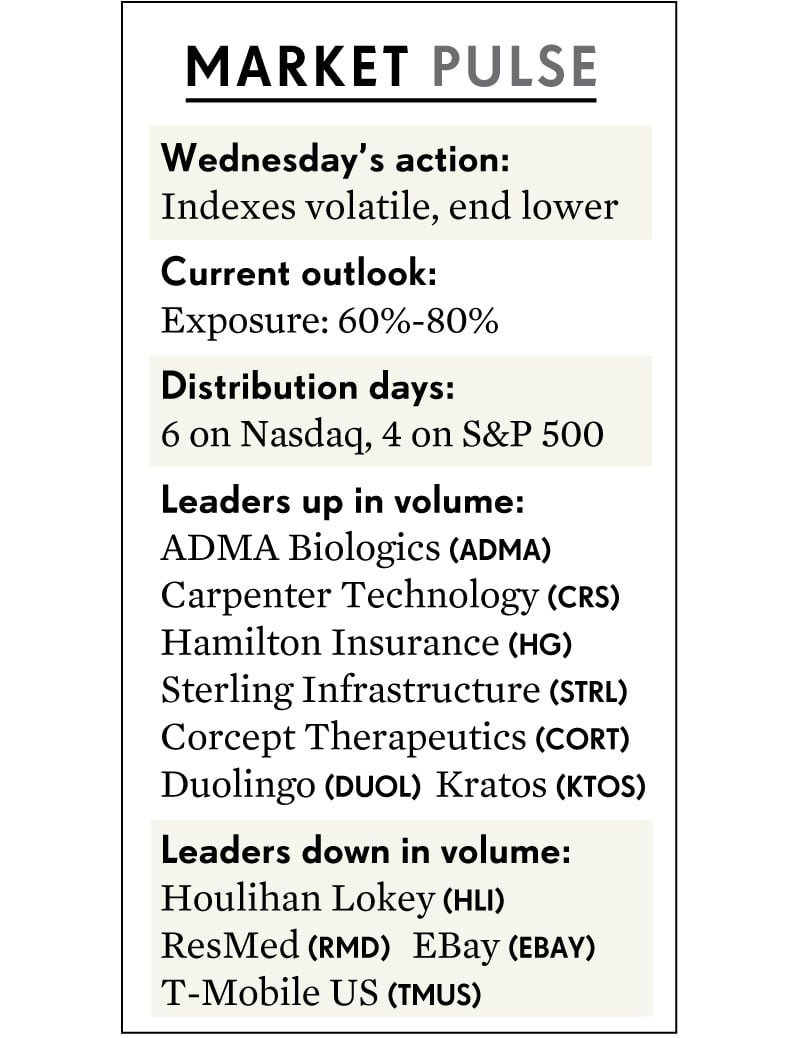
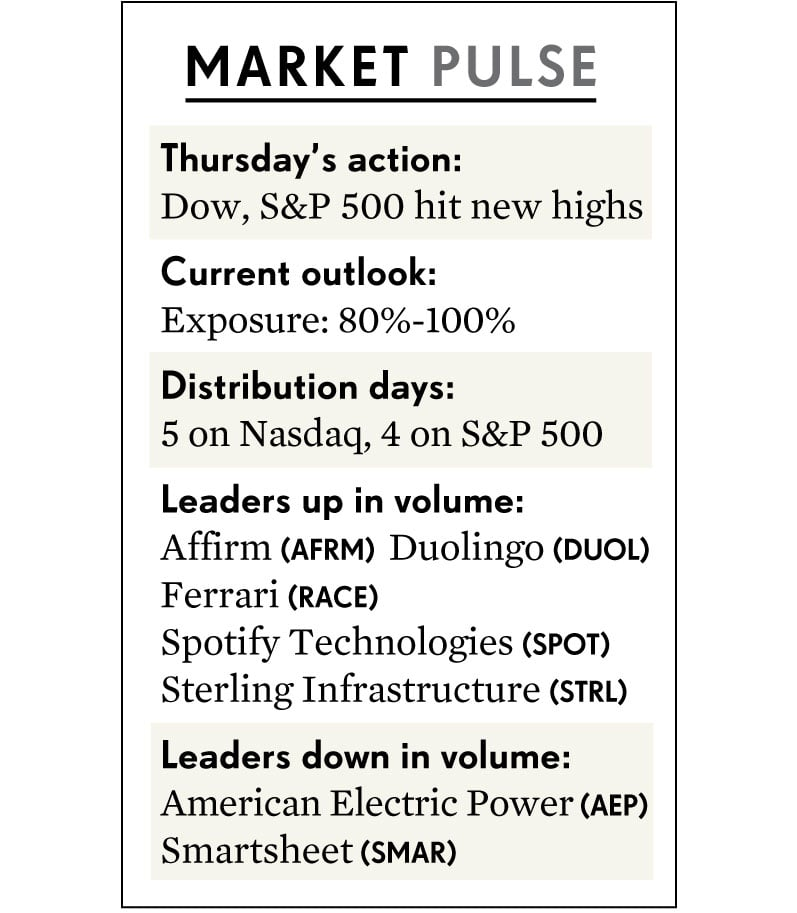
update

Changed region(s): [[0.1506, 0.0307, 0.8733, 1.0]]

diff --git a/_columns/The_Big_Picture/2024-09-19.md b/_columns/The_Big_Picture/2024-09-19.md
@@ -1,104 +1,145 @@
 ---
 layout: content
 title: >-
-  Stocks Volatile After Fed Goes With Bigger Rate Cut; Why Market Outlook Could Change Soon
-date: 2024-09-19 09:55 -0700
-author: JUAN CARLOS ARANCIBIA
+  Dow Jones, S&P 500 Hit New Highs; 4 Leaders In Buy Zones As Breakouts Enhance Stock Market Outlook
+date: 2024-09-19 17:24 -0700
+author: SCOTT LEHTONEN
 ---
 
 
 
 
 
-The stock market waited 2-1/2 years for this day, and it wasn't sure what to do after the Fed officially ended a tightening policy that began in March 2022.
+The Dow Jones Industrial Average and S&P 500 hit new highs Thursday, as Wall Street had a delayed positive reaction to Wednesday's Federal Reserve interest-rate cut. And the Nasdaq composite closed at its highest level since July 16.
 
 
 
 
-Indexes were erratic Wednesday afternoon. The initial announcement of a 50-basis-point rate cut was the larger of two scenarios, and it motivated buyers. The Nasdaq initially climbed more than 1%, and the Russell 2000 rallied more than 2%. But investors soon tempered their enthusiasm.
+The Dow Jones Industrial Average rose 1.3% to close above 42,000 for the first time. The S&P 500 gained 1.7%, while the Nasdaq composite rallied 2.5%. The small-cap Russell 2000 index climbed 2.1%.
 
 
-As Fed Chair Jerome Powell spoke with reporters, indexes erased most or all gains. That came despite a generally positive Q&A session from Powell. Sellers took control in the final hour, leaving the main indexes at session lows at the closing bell.
+Eight of the 11 S&P 500 sectors ended higher, with technology and consumer discretionary leading the way. Defensive sectors — consumer staples, real estate and utilities — fell as investors embraced risk.
 
 
-The S&P 500 closed 0.3% lower, diminishing its intraday record high to just a footnote. The Nasdaq composite and Dow Jones Industrial Average also fell 0.3%. The small-cap Russell 2000 escaped with a gain of less than 0.1%.
+Breadth was positive, as [advancers topped decliners](https://www.marketwatch.com/market-data/us?mod=market-data-center) by nearly 4-to-1 on the NYSE and by nearly 3-to-1- on the Nasdaq.
 
 
-Volume rose on the Nasdaq and NYSE from Tuesday's levels. That meant the Nasdaq and S&P 500 picked up a [distribution day](https://www.investors.com/how-to-invest/investors-corner/stock-market-timing-the-subtle-sign-of-market-tops/).
+Volume edged lower on the Nasdaq but was higher on the New York Stock Exchange from Wednesday's session.
 
 
-Despite its volatile action Wednesday, the S&P 500's intraday advance was enough to cause the deletion of the Sept. 6 distribution day, which offset Wednesday's new distribution day. The index climbed more than 5% from that day's close, meaning it should no longer factor into the current market analysis.
+The Nasdaq's Sept. 3 [distribution day](https://www.investors.com/how-to-invest/investors-corner/stock-market-timing-the-subtle-sign-of-market-tops/) dropped off the overall count. When an index moves up 5% from the closing price of the distribution day, then it is considered no longer relevant to the current count.
 
 
-Yet the Nasdaq now has a half-dozen days of higher-volume losses, and the S&P has four such days. Those numbers point to a trend of institutional selling that needs to be watched closely in the coming days.
 
 
-Stock Market Holds Up For Now
------------------------------
+---
 
 
-![](https://www.investors.com/wp-content/uploads/2024/09/MP091824-230x300.jpg)The overall technical profile of the major indexes remained largely unchanged even after the wild afternoon. The Dow, S&P 500, Nasdaq and Russell 2000 continued to hold above their [50-day moving averages](https://www.investors.com/how-to-invest/investors-corner/moving-averages-help-understand-stock-markets-direction-heres-how-to-use-them/).
+[**Nvidia, Apple And Tesla Highlight How To Handle This Market**](https://www.investors.com/how-to-invest/investors-corner/investing-in-stocks-stock-investing-with-three-step-routine/)
 
 
-On Wednesday, decliners topped advancers by 7-to-4 on the Nasdaq and by 8-to-7 on the NYSE. Every S&P sector index fell except for Energy Select Sector SPDR ([XLE](https://research.investors.com/quote.aspx?symbol=XLE)), which added 0.2%.
 
 
-But in broader terms, breadth has been improving. The Invesco S&P 500 Equal Weight ETF ([RSP](https://research.investors.com/quote.aspx?symbol=RSP)), for example, made a record high Wednesday before reversing lower 0.2%. Stocks making new 52-week highs have been far outnumbering new lows.
+---
 
 
-In a positive sign for leading growth stocks, the IBD 50 0utperformed with a 0.3% increase.
+Dow Jones Winners And Losers
+----------------------------
 
 
-But breakouts Wednesday followed the market's weak afternoon. Eight stocks in the [IBD MarketSurge 250 index](https://get.investors.com/marketsurge/?artProdLink=MarketSurge) topped buy points; in all cases, they finished below their entries.
+![](https://www.investors.com/wp-content/uploads/2024/09/MP091924--262x300.jpg)In the Dow Jones index, **Salesforce** ([CRM](https://research.investors.com/quote.aspx?symbol=CRM)) and **Caterpillar** ([CAT](https://research.investors.com/quote.aspx?symbol=CAT)) were among the biggest winners Thursday, with gains of 5.4% and 5.1%, respectively. They combined for more than 200 of the Dow's 522-point increase Thursday.
 
 
-Mixed market signals mean the stock market is seeking direction and investors have to be prepared in case of a larger drawdown. IBD's recommended exposure remained at 60%-80%, but it would be smart to be cautious while the market tries to figure out its direction.
+Meanwhile, **McDonald's** ([MCD](https://research.investors.com/quote.aspx?symbol=MCD)) contributed more than 215 points to the Dow Jones industrials' point gain, according to Dow Jones Market Data.
 
 
-Stock Market Moves On Powell Comments
--------------------------------------
+On the downside, **Coca-Cola** ([KO](https://research.investors.com/quote.aspx?symbol=KO)) and **Procter & Gamble** ([PG](https://research.investors.com/quote.aspx?symbol=PG)) were the biggest losers on the session, down 1.6% and 1.4%, respectively. It was another sign that investors moved away from defensive assets.
 
 
-Buyers had been guarded ahead of the Fed's announcement. In a press briefing, Powell expressed confidence that the Fed can reach its goal of 2% inflation while keeping the U.S. economy on good footing.
+[All of the Magnificent Seven stocks](https://www.investors.com/research/magnificent-seven-stocks-to-buy-and-and-watch/) ended higher as the Roundhill Magnificent Seven ETF ([MAGS](https://research.investors.com/quote.aspx?symbol=MAGS)) jumped 3.7%. Notably, **Nvidia** ([NVDA](https://research.investors.com/quote.aspx?symbol=NVDA)) rallied 4% to regain its 50-day moving average, while **Tesla** ([TSLA](https://research.investors.com/quote.aspx?symbol=TSLA)) raced above an early entry at 235, the high price on Sept. 5.
 
 
-Powell said there was "broad support" for the [50-basis-point cut](https://www.investors.com/news/economy/federal-reserve-rate-cuts-start-sp-500-jerome-powell/) among members of the Federal Open Market Committee, although one member dissented. The Fed penciled in another half point in rate cuts by the end of the year.
+The Innovator IBD 50 ETF ([FFTY](https://research.investors.com/quote.aspx?symbol=FFTY)) gained 2.1% Thursday. In the [IBD 50](https://research.investors.com/stock-lists/ibd-50/), **Monday.com** ([MNDY](https://research.investors.com/quote.aspx?symbol=MNDY)) climbed 5% to break out past a 272.77 alternate entry.
 
 
-The benchmark 10-year Treasury yield climbed four basis points to 3.68%, the largest one-day increase since Aug. 22.
+What To Do Now
+--------------
 
 
-Jack McIntyre, portfolio manager at Brandywine Global, said in written comments that a more prolonged and predictable easing cycle is at hand.
+Thursday's rally was more evidence of stock market strength following Wednesday's hesitant action. That results in IBD's recommended market exposure level being lifted from 60%-80% to 80%-100%.
 
 
-"It now will be a battle between market expectations and the Fed, with employment data — not inflation data — determining which side is right," McIntyre said. "Since this policy move was mostly telegraphed, there is no outsized move in financial markets. Now, everyone is back to data dependency."
+That means that investors can add more positions as market leaders break out past new entries. Those are good opportunities to put some capital to work.
 
 
-Jeff Schulze, head of economic and market strategy at ClearBridge Investments, said the Fed's dot-plot changed substantially. Fed policymakers now expect another six cuts by the end of 2025, which is much closer to current market pricing.
+Despite favorable action, the current environment still requires [risk management](https://www.investors.com/how-to-invest/investors-corner/risk-management-in-the-stock-market-how-much-money-to-invest-now/), one of the [four pillars of The IBD Methodology](https://www.investors.com/how-to-invest/investors-corner/stock-market-investing-ibd-methodology/). That means incrementally adding and reducing exposure to stay in sync with the broad market.
 
 
-"Should this rate path come to fruition, the 10-year Treasury will likely move higher on the back of stronger expected economic momentum," Schulze said. "This would rhyme with prior soft landing cutting cycles as the 10-year Treasury has historically moved higher in a sell-the-news fashion following the initial rate cut. Going forward, we expect the Fed will move in 25 bp (basis point) increments to further recalibrate policy barring a material deterioration in the labor market."
+[IBD MarketSurge](https://get.investors.com/marketsurge/?artProdLink=MarketSurge)'s Breaking Out Today list featured another three stocks, building on a number of breakouts this week. That's another bullish layer for the stock market outlook.
 
 
-[View General Market Indicator charts page here.](https://www.investors.com/wp-content/uploads/2024/09/DailyGMI_091824.pdf)
+Meanwhile, there are another 16 ideas appearing on MarketSurge's Near Pivot list, suggesting there are more buying opportunities ready to emerge.
+
+
+
+
+---
+
+
+[**Keep Trying, Nvidia, But These 19 Stocks Are Already 'Perfect'**](https://www.investors.com/research/stock-screener-top-stocks-to-buy-watch/)
+
+
+
+
+---
+
+
+
+Stock Market Leaders: Arista, DoorDash, Meta, Spotify
+-----------------------------------------------------
+
+
+Amid the stock market rebound, leaders to watch include **Arista Networks** ([ANET](https://research.investors.com/quote.aspx?symbol=ANET)), **DoorDash** ([DASH](https://research.investors.com/quote.aspx?symbol=DASH)), **Meta Platforms** ([META](https://research.investors.com/quote.aspx?symbol=META)) and **Spotify** ([SPOT](https://research.investors.com/quote.aspx?symbol=SPOT)).
+
+
+Arista Networks is breaking out past a 376.50 buy point in a consolidation, according to [IBD MarketSurge](https://get.investors.com/marketsurge/?artProdLink=MarketSurge) pattern recognition. The stock was on the MarketSurge Growth 250 Breaking Out Today list.
+
+
+DoorDash rallied further above a 131.21 cup-with-handle entry after BTIG upgraded the stock from neutral to buy, with a 155 price target.
+
+
+Social media giant Meta Platforms jumped above a 544.23 alternative buy point Thursday, closing at new highs.
+
+
+Finally, [Spotify shares](https://www.investors.com/research/ibd-stock-of-the-day/spotify-stock-forecast-1-billion-active-users/) are breaking out above a 359.38 entry. The [music streaming platform](https://www.investors.com/news/technology/spotify-stock-hits-high-note-price-target-hike/) and [IBD SwingTrader idea](https://www.investors.com/product/swingtrader/?artProdLink=Swingtrader) jumped 4.7%, closing in a 5% buy area that runs up to 377.35.
+
+
+[View General Market Indicator charts page here.](https://www.investors.com/wp-content/uploads/2024/09/DailyGMI_091924.pdf)
+
+
+*Be sure to follow Scott Lehtonen on X at [@IBD\_SLehtonen](https://twitter.com/IBD_SLehtonen) for more on the Dow Jones Industrial Average and stock market news.*
+
+
 
 
 **YOU MAY ALSO LIKE:**
 
 
-[The Four Pillars Of The IBD Methodology](https://www.investors.com/how-to-invest/investors-corner/stock-market-investing-ibd-methodology/)
+[Check Out IBD's New Exposure Levels To Help You Stay In Step With The Market Trend](https://www.investors.com/how-to-invest/investors-corner/risk-management-in-the-stock-market-how-much-money-to-invest-now/)
 
 
-[Risk Management In The Stock Market: How Much Money To Invest](https://www.investors.com/how-to-invest/investors-corner/risk-management-in-the-stock-market-how-much-money-to-invest-now/)
+[Top Growth Stocks To Buy And Watch In Today's Stock Market And Dow Jones](https://www.investors.com/stock-lists/stocks-to-watch-top-rated-ipos-big-caps-and-growth-stocks/)
 
 
-[IBD Live: Learn And Analyze Growth Stocks With The Pros](https://shop.investors.com/offer/splashresponsive.aspx?id=IBD-Live&intcode=icmhpbrdcstmsg|cms|ibdlive|2019|11|ibdlive|na|707596&src=A00387A)
+[Learn How To Time The Market With IBD's ETF Market Strategy](https://www.investors.com/market-trend/ibds-etf-market-strategy/ibds-etf-market-strategy/)
 
 
-[Get Free IBD Newsletters: Market Prep \| Tech Report \| How To Invest](https://shop.investors.com/offer/splashresponsive.aspx?id=newsletters-howtoinvest)
+[Find The Best Long-Term Investments With IBD Long-Term Leaders](https://www.investors.com/research/ibd-long-term-leaders-screen)
 
 
-[What To Do Now After Stocks End Lower Despite Big Rate Cut](https://www.investors.com/market-trend/stock-market-today/dow-jones-futures-stock-market-lower-fed-rate-cut/)
+[Spot Buy Points And Sell Signals With MarketSurge Pattern Recognition](https://get.investors.com/marketsurge/?artProdLink=MarketSurge)
+
+
 
 
 

diff --git a/_columns/The_Big_Picture/zh-cn/2024-09-19.md b/_columns/The_Big_Picture/zh-cn/2024-09-19.md
@@ -1,0 +1,176 @@
+---
+layout: content
+title: >-
+  Dow Jones, S&P 500 Hit New Highs; 4 Leaders In Buy Zones As Breakouts Enhance Stock Market Outlook	道琼斯、标准普尔 500 指数创下新高;4 个领先企业进入买入区，突破增强股市前景
+date: 2024-09-19 17:24 -0700
+author: SCOTT LEHTONEN 斯科特·莱赫托宁
+---
+
+
+
+
+
+The Dow Jones Industrial Average and S&P 500 hit new highs Thursday, as Wall Street had a delayed positive reaction to Wednesday's Federal Reserve interest-rate cut. And the Nasdaq composite closed at its highest level since July 16.  
+道琼斯工业平均指数和标准普尔 500 指数周四创下新高，因为华尔街对美联储周三降息的积极反应延迟。纳斯达克综合指数收于 7 月 16 日以来的最高水平。
+
+
+
+
+The Dow Jones Industrial Average rose 1.3% to close above 42,000 for the first time. The S&P 500 gained 1.7%, while the Nasdaq composite rallied 2.5%. The small-cap Russell 2000 index climbed 2.1%.  
+道琼斯工业平均指数上涨 1.3%，首次收于 42,000 点以上。标准普尔 500 指数上涨 1.7%，而纳斯达克综合指数上涨 2.5%。小盘股罗素 2000 指数上涨 2.1%。
+
+
+Eight of the 11 S&P 500 sectors ended higher, with technology and consumer discretionary leading the way. Defensive sectors — consumer staples, real estate and utilities — fell as investors embraced risk.  
+标准普尔 500 指数的 11 个板块中有 8 个板块收高，其中科技和非必需消费品领涨。由于投资者接受风险，防御性板块——必需消费品、房地产和公用事业——下跌。
+
+
+Breadth was positive, as [advancers topped decliners](https://www.marketwatch.com/market-data/us?mod=market-data-center) by nearly 4-to-1 on the NYSE and by nearly 3-to-1- on the Nasdaq.  
+广度是积极的，纽约证券交易所[的上涨股](https://www.marketwatch.com/market-data/us?mod=market-data-center)以近 4 比 1 的比分领先于下跌的股票，在纳斯达克指数的涨幅接近 3 比 1。
+
+
+Volume edged lower on the Nasdaq but was higher on the New York Stock Exchange from Wednesday's session.  
+纳斯达克的成交量小幅走低，但纽约证券交易所的成交量比周三的交易时段有所上升。
+
+
+The Nasdaq's Sept. 3 [distribution day](https://www.investors.com/how-to-invest/investors-corner/stock-market-timing-the-subtle-sign-of-market-tops/) dropped off the overall count. When an index moves up 5% from the closing price of the distribution day, then it is considered no longer relevant to the current count.  
+纳斯达克 9 月 3 日[的发行日](https://www.investors.com/how-to-invest/investors-corner/stock-market-timing-the-subtle-sign-of-market-tops/)比总计数下降。当指数从分配日的收盘价上涨 5% 时，则认为它不再与当前计数相关。
+
+
+
+
+---
+
+
+[**Nvidia, Apple And Tesla Highlight How To Handle This Market  
+英伟达、苹果和特斯拉强调如何应对这一市场**](https://www.investors.com/how-to-invest/investors-corner/investing-in-stocks-stock-investing-with-three-step-routine/)
+
+
+
+
+---
+
+
+Dow Jones Winners And Losers道琼斯赢家和输家
+------------------------------------
+
+
+![](https://www.investors.com/wp-content/uploads/2024/09/MP091924--262x300.jpg)In the Dow Jones index, **Salesforce** ([CRM](https://research.investors.com/quote.aspx?symbol=CRM)) and **Caterpillar** ([CAT](https://research.investors.com/quote.aspx?symbol=CAT)) were among the biggest winners Thursday, with gains of 5.4% and 5.1%, respectively. They combined for more than 200 of the Dow's 522-point increase Thursday.  
+在道琼斯指数中，**Salesforce** （[CRM）](https://research.investors.com/quote.aspx?symbol=CRM) 和 **Caterpillar** （[CAT）](https://research.investors.com/quote.aspx?symbol=CAT) 周四是最大的赢家之一，分别上涨 5.4% 和 5.1%。周四道琼斯指数上涨 522 点，其中 200 多点加起来。
+
+
+Meanwhile, **McDonald's** ([MCD](https://research.investors.com/quote.aspx?symbol=MCD)) contributed more than 215 points to the Dow Jones industrials' point gain, according to Dow Jones Market Data.  
+与此同时，根据道琼斯市场数据，**麦当劳** （[MCD](https://research.investors.com/quote.aspx?symbol=MCD)） 为道琼斯工业指数的涨幅贡献了超过 215 点。
+
+
+On the downside, **Coca-Cola** ([KO](https://research.investors.com/quote.aspx?symbol=KO)) and **Procter & Gamble** ([PG](https://research.investors.com/quote.aspx?symbol=PG)) were the biggest losers on the session, down 1.6% and 1.4%, respectively. It was another sign that investors moved away from defensive assets.  
+从下行的一面来看，**可口可乐**（[KO）](https://research.investors.com/quote.aspx?symbol=KO)和**宝洁**（[PG）](https://research.investors.com/quote.aspx?symbol=PG)是本次交易日的最大输家，分别下跌了1.6%和1.4%。这是投资者远离防御性资产的另一个迹象。
+
+
+[All of the Magnificent Seven stocks](https://www.investors.com/research/magnificent-seven-stocks-to-buy-and-and-watch/) ended higher as the Roundhill Magnificent Seven ETF ([MAGS](https://research.investors.com/quote.aspx?symbol=MAGS)) jumped 3.7%. Notably, **Nvidia** ([NVDA](https://research.investors.com/quote.aspx?symbol=NVDA)) rallied 4% to regain its 50-day moving average, while **Tesla** ([TSLA](https://research.investors.com/quote.aspx?symbol=TSLA)) raced above an early entry at 235, the high price on Sept. 5.  
+随着 Roundhill Magnificent Seven ETF （[MAGS](https://research.investors.com/quote.aspx?symbol=MAGS)） 上涨 3.7%，[所有 Magnificent Seven 股票](https://www.investors.com/research/magnificent-seven-stocks-to-buy-and-and-watch/)收高。值得注意的是，**英伟达** （[NVDA）](https://research.investors.com/quote.aspx?symbol=NVDA) 上涨 4% 以收复其 50 天移动平均线，而**特斯拉** （[TSLA）](https://research.investors.com/quote.aspx?symbol=TSLA) 在 9 月 5 日的高价 235 上方飙升。
+
+
+The Innovator IBD 50 ETF ([FFTY](https://research.investors.com/quote.aspx?symbol=FFTY)) gained 2.1% Thursday. In the [IBD 50](https://research.investors.com/stock-lists/ibd-50/), **Monday.com** ([MNDY](https://research.investors.com/quote.aspx?symbol=MNDY)) climbed 5% to break out past a 272.77 alternate entry.  
+Innovator IBD 50 ETF （[FFTY）](https://research.investors.com/quote.aspx?symbol=FFTY) 周四上涨 2.1%。在 [IBD 50](https://research.investors.com/stock-lists/ibd-50/) 中，**Monday.com** （[MNDY）](https://research.investors.com/quote.aspx?symbol=MNDY) 上涨 5%，突破 272.77 的备用入场点。
+
+
+What To Do Now 现在该做什么
+---------------------
+
+
+Thursday's rally was more evidence of stock market strength following Wednesday's hesitant action. That results in IBD's recommended market exposure level being lifted from 60%-80% to 80%-100%.  
+周四的反弹更多地证明了股市在周三犹豫不决的行动之后走强。这导致 IBD 建议的市场敞口水平从 60%-80% 提高到 80%-100%。
+
+
+That means that investors can add more positions as market leaders break out past new entries. Those are good opportunities to put some capital to work.  
+这意味着投资者可以在市场领导者突破过去的新进入时增加更多头寸。这些都是投入一些资金的好机会。
+
+
+Despite favorable action, the current environment still requires [risk management](https://www.investors.com/how-to-invest/investors-corner/risk-management-in-the-stock-market-how-much-money-to-invest-now/), one of the [four pillars of The IBD Methodology](https://www.investors.com/how-to-invest/investors-corner/stock-market-investing-ibd-methodology/). That means incrementally adding and reducing exposure to stay in sync with the broad market.  
+尽管采取了有利的行动，但当前的环境仍然需要[风险管理](https://www.investors.com/how-to-invest/investors-corner/risk-management-in-the-stock-market-how-much-money-to-invest-now/)，这是 [IBD 方法的四大支柱](https://www.investors.com/how-to-invest/investors-corner/stock-market-investing-ibd-methodology/)之一。这意味着逐步增加和减少风险敞口，以与大盘保持同步。
+
+
+[IBD MarketSurge](https://get.investors.com/marketsurge/?artProdLink=MarketSurge)'s Breaking Out Today list featured another three stocks, building on a number of breakouts this week. That's another bullish layer for the stock market outlook.  
+[IBD MarketSurge](https://get.investors.com/marketsurge/?artProdLink=MarketSurge) 的 Breaking Out Today 名单以本周的多次突破为基础，介绍了另外三只股票。这是股市前景的另一个看涨因素。
+
+
+Meanwhile, there are another 16 ideas appearing on MarketSurge's Near Pivot list, suggesting there are more buying opportunities ready to emerge.  
+与此同时，MarketSurge 的 Near Pivot 列表中还出现了另外 16 个想法，这表明有更多买入机会即将出现。
+
+
+
+
+---
+
+
+[**Keep Trying, Nvidia, But These 19 Stocks Are Already 'Perfect'  
+继续尝试，英伟达，但这 19 只股票已经是“完美”的**](https://www.investors.com/research/stock-screener-top-stocks-to-buy-watch/)
+
+
+
+
+---
+
+
+
+Stock Market Leaders: Arista, DoorDash, Meta, Spotify股市领导者：Arista、DoorDash、Meta、Spotify
+---------------------------------------------------------------------------------------
+
+
+Amid the stock market rebound, leaders to watch include **Arista Networks** ([ANET](https://research.investors.com/quote.aspx?symbol=ANET)), **DoorDash** ([DASH](https://research.investors.com/quote.aspx?symbol=DASH)), **Meta Platforms** ([META](https://research.investors.com/quote.aspx?symbol=META)) and **Spotify** ([SPOT](https://research.investors.com/quote.aspx?symbol=SPOT)).  
+在股市反弹中，值得关注的领导者包括 **Arista Networks** （[ANET](https://research.investors.com/quote.aspx?symbol=ANET)）、**DoorDash** （[DASH](https://research.investors.com/quote.aspx?symbol=DASH)）、**Meta Platforms** （[META）](https://research.investors.com/quote.aspx?symbol=META) 和 **Spotify** （[SPOT](https://research.investors.com/quote.aspx?symbol=SPOT)）。
+
+
+Arista Networks is breaking out past a 376.50 buy point in a consolidation, according to [IBD MarketSurge](https://get.investors.com/marketsurge/?artProdLink=MarketSurge) pattern recognition. The stock was on the MarketSurge Growth 250 Breaking Out Today list.  
+根据 [IBD MarketSurge](https://get.investors.com/marketsurge/?artProdLink=MarketSurge) 模式识别，Arista Networks 在盘整中突破 376.50 买入点。该股在 MarketSurge Growth 250 Breaking Out Today 名单上。
+
+
+DoorDash rallied further above a 131.21 cup-with-handle entry after BTIG upgraded the stock from neutral to buy, with a 155 price target.  
+在 BTIG 将该股从中性上调至买入后，DoorDash 进一步反弹至 131.21 杯带把手入场点上方，目标价为 155。
+
+
+Social media giant Meta Platforms jumped above a 544.23 alternative buy point Thursday, closing at new highs.  
+社交媒体巨头 Meta Platforms 周四跃升至 544.23 的另类买入点上方，收于新高。
+
+
+Finally, [Spotify shares](https://www.investors.com/research/ibd-stock-of-the-day/spotify-stock-forecast-1-billion-active-users/) are breaking out above a 359.38 entry. The [music streaming platform](https://www.investors.com/news/technology/spotify-stock-hits-high-note-price-target-hike/) and [IBD SwingTrader idea](https://www.investors.com/product/swingtrader/?artProdLink=Swingtrader) jumped 4.7%, closing in a 5% buy area that runs up to 377.35.  
+最后，[Spotify 股价](https://www.investors.com/research/ibd-stock-of-the-day/spotify-stock-forecast-1-billion-active-users/)突破 359.38 的入场点。[音乐流媒体平台](https://www.investors.com/news/technology/spotify-stock-hits-high-note-price-target-hike/)和 [IBD SwingTrader 想法](https://www.investors.com/product/swingtrader/?artProdLink=Swingtrader)上涨 4.7%，收于 5% 的买入区域，最高可达 377.35。
+
+
+[View General Market Indicator charts page here.  
+在此处查看一般市场指标图表页面。](https://www.investors.com/wp-content/uploads/2024/09/DailyGMI_091924.pdf)
+
+
+*Be sure to follow Scott Lehtonen on X at [@IBD\_SLehtonen](https://twitter.com/IBD_SLehtonen) for more on the Dow Jones Industrial Average and stock market news.  
+请务必关注 Scott Lehtonen 在 [X at @IBD\_SLehtonen](https://twitter.com/IBD_SLehtonen) 上了解有关道琼斯工业平均指数和股市新闻的更多信息。*
+
+
+
+
+**YOU MAY ALSO LIKE: 您可能还喜欢：**
+
+
+[Check Out IBD's New Exposure Levels To Help You Stay In Step With The Market Trend  
+查看 IBD 的新风险敞口水平，以帮助您紧跟市场趋势](https://www.investors.com/how-to-invest/investors-corner/risk-management-in-the-stock-market-how-much-money-to-invest-now/)
+
+
+[Top Growth Stocks To Buy And Watch In Today's Stock Market And Dow Jones  
+在今天的股市和道琼斯值得购买和关注的顶级成长股](https://www.investors.com/stock-lists/stocks-to-watch-top-rated-ipos-big-caps-and-growth-stocks/)
+
+
+[Learn How To Time The Market With IBD's ETF Market Strategy  
+了解如何使用 IBD 的 ETF 市场策略把握市场时机](https://www.investors.com/market-trend/ibds-etf-market-strategy/ibds-etf-market-strategy/)
+
+
+[Find The Best Long-Term Investments With IBD Long-Term Leaders  
+与 IBD 长期领导者一起寻找最佳长期投资](https://www.investors.com/research/ibd-long-term-leaders-screen)
+
+
+[Spot Buy Points And Sell Signals With MarketSurge Pattern Recognition  
+使用 MarketSurge 模式识别进行现货买入和卖出信号](https://get.investors.com/marketsurge/?artProdLink=MarketSurge)
+
+
+
+
+
+
